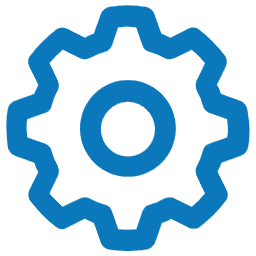
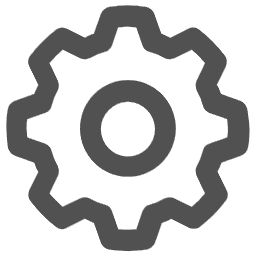
改变按钮样式和布局

diff --git a/qt_chat/src/main.py b/qt_chat/src/main.py
@@ -147,60 +147,84 @@ class FunWidget(QWidget):
         super(FunWidget, self).__init__(parent)
         #chatRecordsButton PushButton
         self.chatRecordsButton = PushButton(tipText='聊天历史', tipOffsetX=30, tipOffsetY=40)
-        self.chatRecordsButton.setFixedSize(30, 30)
-        self.chatRecordsButton.setIconSize(QSize(30, 30))
+        self.chatRecordsButton.setFixedSize(44, 44)
         self.chat_records_images_path = os.path.join(images_dir, 'chat_records.png').replace('\\', '/')
-        self.chat_records_hover_images_path = os.path.join(images_dir, 'chat_records_hover.png').replace('\\', '/')
-        self.chatRecordsButton.setStyleSheet(f'''
-        QPushButton{{
-            border-image: url('{self.chat_records_images_path}');
-        }}
-        QPushButton:hover{{
-            border-image: url('{self.chat_records_hover_images_path}');
-        }}
+        """ self.chat_records_hover_images_path = os.path.join(images_dir, 'chat_records_hover.png').replace('\\', '/') """
+        self.chatRecordsButton.setIcon(QIcon(f"{self.chat_records_images_path}"))
+        self.chatRecordsButton.setIconSize(QSize(30, 30))
+        self.chatRecordsButton.setStyleSheet('''
+        QPushButton{
+            border: none;
+            border-radius: 22px;
+        }
+        QPushButton:hover{
+            background: #d0d0d0;
+        }
         ''')
         #funLeftSubWidget QWidget
         self.funLeftSubWidget = Widget()
-        self.funLeftSubWidget.resize(self.chatRecordsButton.width() + 15, self.chatRecordsButton.height() + 6)
+        self.funLeftSubWidget.resize(self.chatRecordsButton.width() + 15, self.chatRecordsButton.height() + 16)
         self.funLeftSubWidget.setSizePolicy(QSizePolicy.Preferred, QSizePolicy.Fixed)
         #funLeftSubHLayout QHBoxLayout
         self.funLeftSubHLayout = QHBoxLayout()
         self.funLeftSubWidget.setLayout(self.funLeftSubHLayout)
         self.funLeftSubHLayout.addWidget(self.chatRecordsButton)
         self.funLeftSubHLayout.setAlignment(Qt.AlignLeft)
-        self.funLeftSubHLayout.setContentsMargins(10, 3, 5, 3)
+        self.funLeftSubHLayout.setContentsMargins(10, 10, 5, 6)
+        #titleLabel QLabel
+        self.titleLabel = QLabel()
+        self.titleLabel.setFixedHeight(60)
+        self.titleFont = QFont()
+        self.titleFont.setPixelSize(24)
+        self.titleFont.setBold(True)
+        self.titleLabel.setFont(self.titleFont)
+        self.titleLabel.setText('AI助理')
+        self.titleLabel.adjustSize()
+        #funMidSubWidget QWidget
+        self.funMidSubWidget = Widget()
+        self.funMidSubWidget.resize(self.titleLabel.width(), self.titleLabel.height())
+        self.funMidSubWidget.setSizePolicy(QSizePolicy.Preferred, QSizePolicy.Fixed)
+        #funMidSubHLayout QHBoxLayout
+        self.funMidSubHLayout = QHBoxLayout()
+        self.funMidSubWidget.setLayout(self.funMidSubHLayout)
+        self.funMidSubHLayout.addWidget(self.titleLabel)
+        self.funMidSubHLayout.setAlignment(Qt.AlignCenter)
+        self.funMidSubHLayout.setContentsMargins(0, 0, 0, 0)
         #newChatButton PushButton
         self.newChatButton = PushButton(tipText='新聊天', tipOffsetX=20, tipOffsetY=40)
-        self.newChatButton.setFixedSize(30, 30)
-        self.newChatButton.setIconSize(QSize(30, 30))
+        self.newChatButton.setFixedSize(44, 44)
         self.new_chat_images_path = os.path.join(images_dir, 'new_chat.png').replace('\\', '/')
-        self.new_chat_hover_images_path = os.path.join(images_dir, 'new_chat_hover.png').replace('\\', '/')
-        self.newChatButton.setStyleSheet(f'''
-        QPushButton{{
-            border-image: url("{self.new_chat_images_path}");
-        }}
-        QPushButton:hover{{
-            border-image: url("{self.new_chat_hover_images_path}");
-        }}
+        """ self.new_chat_hover_images_path = os.path.join(images_dir, 'new_chat_hover.png').replace('\\', '/') """
+        self.newChatButton.setIcon(QIcon(f"{self.new_chat_images_path}"))
+        self.newChatButton.setIconSize(QSize(30, 30))
+        self.newChatButton.setStyleSheet('''
+        QPushButton{
+            border: none;
+            border-radius: 22px;
+        }
+        QPushButton:hover{
+            background: #d0d0d0;
+        }
         ''')
         #funRightSubWidget QWidget
         self.funRightSubWidget = Widget()
-        self.funRightSubWidget.resize(self.newChatButton.width() + 15, self.newChatButton.height() + 6)
+        self.funRightSubWidget.resize(self.newChatButton.width() + 15, self.newChatButton.height() + 16)
         self.funRightSubWidget.setSizePolicy(QSizePolicy.Preferred, QSizePolicy.Fixed)
         #funRightSubHLayout QHBoxLayout
         self.funRightSubHLayout = QHBoxLayout()
         self.funRightSubWidget.setLayout(self.funRightSubHLayout)
         self.funRightSubHLayout.addWidget(self.newChatButton)
         self.funRightSubHLayout.setAlignment(Qt.AlignRight)
-        self.funRightSubHLayout.setContentsMargins(5, 3, 10, 3)
+        self.funRightSubHLayout.setContentsMargins(5, 10, 10, 6)
         #mainHLayout QHBoxLayout
         self.mainHLayout = QHBoxLayout()
         self.setLayout(self.mainHLayout)
         self.mainHLayout.addWidget(self.funLeftSubWidget)
+        self.mainHLayout.addWidget(self.funMidSubWidget)
         self.mainHLayout.addWidget(self.funRightSubWidget)
         self.mainHLayout.setContentsMargins(0, 0, 0, 0)
         #FunWidget adjust size
-        self.resize(1200, 36)
+        self.resize(1200, 60)
         self.setSizePolicy(QSizePolicy.Preferred, QSizePolicy.Fixed)
 
     def connectChatRecordsButtonClick(self, fun):
@@ -212,7 +236,7 @@ class FunWidget(QWidget):
 class ListWidget(QListWidget):
     def __init__(self, parent=None):
         super(ListWidget, self).__init__(parent)
-        self.resize(1171, 492)
+        self.resize(1171, 480)
         self.setSizePolicy(QSizePolicy.Preferred, QSizePolicy.Preferred)
         self.setHorizontalScrollBarPolicy(Qt.ScrollBarAlwaysOff)
         self.setVerticalScrollMode(QAbstractItemView.ScrollPerPixel)
@@ -296,7 +320,7 @@ class CustomMenu(QMenu):
 class TextEdit(QTextEdit):
     def __init__(self, parent=None):
         super(TextEdit, self).__init__(parent)
-        self.resize(1130, 158)
+        self.resize(1130, 150)
         self.setSizePolicy(QSizePolicy.Preferred, QSizePolicy.Preferred)
         self.setPlaceholderText("按Shift+Enter换行、按Enter提交")
         self.sendButton = SendButton(tipText='发送', tipOffsetX=10, tipOffsetY=40)
@@ -1544,9 +1568,35 @@ class ChatRecordsWidget(QWidget):
             if font_families:
                 font_family = font_families[0]
                 self.font = QFont(font_family, 10)
+        #settingButton PushButton
+        self.settingButton = PushButton(tipText='设置', tipOffsetX=10, tipOffsetY=40)
+        self.settingButton.setFixedSize(44, 44)
+        self.setting_images_path = os.path.join(images_dir, 'setting.png').replace('\\', '/')
+        """ self.setting_hover_images_path = os.path.join(images_dir, 'setting_hover.png').replace('\\', '/') """
+        self.settingButton.setIcon(QIcon(f"{self.setting_images_path}"))
+        self.settingButton.setIconSize(QSize(30, 30))
+        self.settingButton.setStyleSheet('''
+        QPushButton{
+            border: none;
+            border-radius: 22px;
+        }
+        QPushButton:hover{
+            background: #b0b0b0;
+        }
+        ''')
+        #buttonWidget QWidget
+        self.buttonWidget = Widget()
+        self.buttonWidget.resize(44, 50)
+        self.buttonWidget.setSizePolicy(QSizePolicy.Preferred, QSizePolicy.Fixed)
+        #buttonVLayout QVBoxLayout
+        self.buttonVLayout = QVBoxLayout()
+        self.buttonWidget.setLayout(self.buttonVLayout)
+        self.buttonVLayout.addWidget(self.settingButton)
+        self.buttonVLayout.setAlignment(Qt.AlignTop)
+        self.buttonVLayout.setContentsMargins(0, 0, 0, 6)
         #QLabel
         self.label = QLabel()
-        self.label.resize(self.width() - 70, 50)
+        self.label.resize(self.width() - self.buttonWidget.width() - 40, 50)
         self.label.setSizePolicy(QSizePolicy.Preferred, QSizePolicy.Fixed)
         font = QFont()
         font.setPixelSize(30)
@@ -1554,30 +1604,6 @@ class ChatRecordsWidget(QWidget):
         self.label.setFont(font)
         self.label.setText("聊天历史")
         self.label.setAlignment(Qt.AlignLeft)
-        #settingButton PushButton
-        self.settingButton = PushButton(tipText='设置', tipOffsetX=10, tipOffsetY=40)
-        self.settingButton.setFixedSize(30, 30)
-        self.settingButton.setIconSize(QSize(30, 30))
-        self.setting_images_path = os.path.join(images_dir, 'setting.png').replace('\\', '/')
-        self.setting_hover_images_path = os.path.join(images_dir, 'setting_hover.png').replace('\\', '/')
-        self.settingButton.setStyleSheet(f'''
-        QPushButton{{
-            border-image: url("{self.setting_images_path}");
-        }}
-        QPushButton:hover{{
-            border-image: url("{self.setting_hover_images_path}");
-        }}
-        ''')
-        #buttonWidget QWidget
-        self.buttonWidget = Widget()
-        self.buttonWidget.resize(30, 50)
-        self.buttonWidget.setSizePolicy(QSizePolicy.Preferred, QSizePolicy.Fixed)
-        #buttonVLayout QVBoxLayout
-        self.buttonVLayout = QVBoxLayout()
-        self.buttonWidget.setLayout(self.buttonVLayout)
-        self.buttonVLayout.addWidget(self.settingButton)
-        self.buttonVLayout.setAlignment(Qt.AlignTop)
-        self.buttonVLayout.setContentsMargins(0, 0, 0, 20)
         #headWidget QWidget
         self.headWidget = Widget()
         self.headWidget.resize(self.width() - 40, 50)
@@ -1838,20 +1864,20 @@ class MainWindow(QMainWindow):
         #chatShowWidget QWidget
         self.chatShowWidget = Widget()
         self.chatShowWidget.setMinimumHeight(244)
-        self.chatShowWidget.resize(1200, 520)
+        self.chatShowWidget.resize(1200, 500)
         self.chatShowWidget.setSizePolicy(QSizePolicy.Preferred, QSizePolicy.Preferred)
         #chatShowVLayout QVBoxLayout
         self.chatShowVLayout = QVBoxLayout()
         self.chatShowWidget.setLayout(self.chatShowVLayout)
         self.chatShowVLayout.addWidget(self.chatShow)
-        self.chatShowVLayout.setContentsMargins(27, 12, 2, 16)
+        self.chatShowVLayout.setContentsMargins(27, 4, 2, 16)
         #TextEditFull
         self.chatInput = TextEditFull()
         self.chatInput.connectSendButtonClick(self.sendMessage)
         #chatInputWidget QWidget
         self.chatInputWidget = Widget()
         self.chatInputWidget.setMinimumHeight(100)
-        self.chatInputWidget.resize(1200, 208)
+        self.chatInputWidget.resize(1200, 200)
         self.chatInputWidget.setSizePolicy(QSizePolicy.Preferred, QSizePolicy.Preferred)
         #chatInputVLayout QVBoxLayout
         self.chatInputVLayout = QVBoxLayout()
@@ -1860,7 +1886,7 @@ class MainWindow(QMainWindow):
         self.chatInputVLayout.setContentsMargins(20, 0, 20, 20)
         #QSplitter
         self.splitter = Splitter(Qt.Vertical)
-        self.splitter.resize(1200, 728)
+        self.splitter.resize(1200, 700)
         self.splitter.setSizePolicy(QSizePolicy.Preferred, QSizePolicy.Preferred)
         self.splitter.setChildrenCollapsible(False)
         self.splitter.addWidget(self.chatShowWidget)
@@ -2245,32 +2271,21 @@ class MainWindow(QMainWindow):
         self.titleIconLabel.setScaledContents(True)
         self.ai_assistant_images_path = os.path.join(images_dir, 'ai_assistant.png').replace('\\', '/')
         self.titleIconLabel.setPixmap(QPixmap(f'{self.ai_assistant_images_path}'))
-        #titleTextLabel QLabel
-        self.titleTextLabel = QLabel()
-        self.titleTextLabel.setFixedHeight(30)
-        self.titleTextFont = QFont()
-        self.titleTextFont.setPixelSize(windowFontSize)
-        self.titleTextLabel.setFont(self.titleTextFont)
-        self.titleTextPalette = self.titleTextLabel.palette()
-        self.titleTextPalette.setColor(QPalette.WindowText, QColor(23, 171, 227))
-        self.titleTextLabel.setPalette(self.titleTextPalette)
-        self.titleTextLabel.setText('AI助理')
-        self.titleTextLabel.adjustSize()
         #titleLeftSubWidget QWidget
         self.titleLeftSubWidget = Widget()
-        self.titleLeftSubWidget.resize(self.titleIconLabel.width() + self.titleTextLabel.width() + 20, 36)
+        self.titleLeftSubWidget.resize(self.titleIconLabel.width() + 15, self.titleIconLabel.height() + 10)
         self.titleLeftSubWidget.setSizePolicy(QSizePolicy.Preferred, QSizePolicy.Fixed)
         #titleLeftSubHLayout QHBoxLayout
         self.titleLeftSubHLayout = QHBoxLayout()
         self.titleLeftSubWidget.setLayout(self.titleLeftSubHLayout)
         self.titleLeftSubHLayout.addWidget(self.titleIconLabel)
-        self.titleLeftSubHLayout.addWidget(self.titleTextLabel)
+        """ self.titleLeftSubHLayout.addWidget(self.titleTextLabel) """
         self.titleLeftSubHLayout.setAlignment(Qt.AlignLeft)
-        self.titleLeftSubHLayout.setContentsMargins(10, 3, 5, 3)
-        self.titleLeftSubHLayout.setSpacing(5)
+        self.titleLeftSubHLayout.setContentsMargins(10, 5, 5, 5)
+        """ self.titleLeftSubHLayout.setSpacing(5) """
         #minButton PushButton
         self.minButton = PushButton(tipText='', tipOffsetX=20, tipOffsetY=40)
-        self.minButton.setFixedSize(50, 36)
+        self.minButton.setFixedSize(50, 40)
         self.min_images_path = os.path.join(images_dir, 'min.png').replace('\\', '/')
         self.minButton.setIcon(QIcon(f"{self.min_images_path}"))
         self.minButton.setIconSize(QSize(20, 20))
@@ -2285,7 +2300,7 @@ class MainWindow(QMainWindow):
         self.minButton.clicked.connect(self.UiMinimize)
         #maxButton PushButton
         self.maxButton = PushButton(tipText='', tipOffsetX=20, tipOffsetY=40)
-        self.maxButton.setFixedSize(50, 36)
+        self.maxButton.setFixedSize(50, 40)
         self.max_images_path = os.path.join(images_dir, 'max.png').replace('\\', '/')
         self.normal_images_path = os.path.join(images_dir, 'normal.png').replace('\\', '/')
         self.maxButton.setIcon(QIcon(f"{self.max_images_path}"))
@@ -2301,7 +2316,7 @@ class MainWindow(QMainWindow):
         self.maxButton.clicked.connect(self.UiMaximize)
         #closeButton PushButton
         self.closeButton = PushButton(tipText='', tipOffsetX=10, tipOffsetY=40)
-        self.closeButton.setFixedSize(50, 36)
+        self.closeButton.setFixedSize(50, 40)
         self.close_images_path = os.path.join(images_dir, 'close.png').replace('\\', '/')
         self.closeButton.setIcon(QIcon(f"{self.close_images_path}"))
         self.closeButton.setIconSize(QSize(20, 20))
@@ -2317,7 +2332,7 @@ class MainWindow(QMainWindow):
         self.closeButton.clicked.connect(self.UiClose)
         #titleRightSubWidget QWidget
         self.titleRightSubWidget = Widget()
-        self.titleRightSubWidget.resize(150, 36)
+        self.titleRightSubWidget.resize(150, 40)
         self.titleRightSubWidget.setSizePolicy(QSizePolicy.Preferred, QSizePolicy.Fixed)
         #titleRightSubHLayout QHBoxLayout
         self.titleRightSubHLayout = QHBoxLayout()
@@ -2330,7 +2345,7 @@ class MainWindow(QMainWindow):
         self.titleRightSubHLayout.setSpacing(0)
         #titleWidget QWidget
         self.titleWidget = TitleWidget()
-        self.titleWidget.resize(1200, 36)
+        self.titleWidget.resize(1200, 40)
         self.titleWidget.setSizePolicy(QSizePolicy.Preferred, QSizePolicy.Fixed)
         #titleHLayout QHBoxLayout
         self.titleHLayout = QHBoxLayout()
